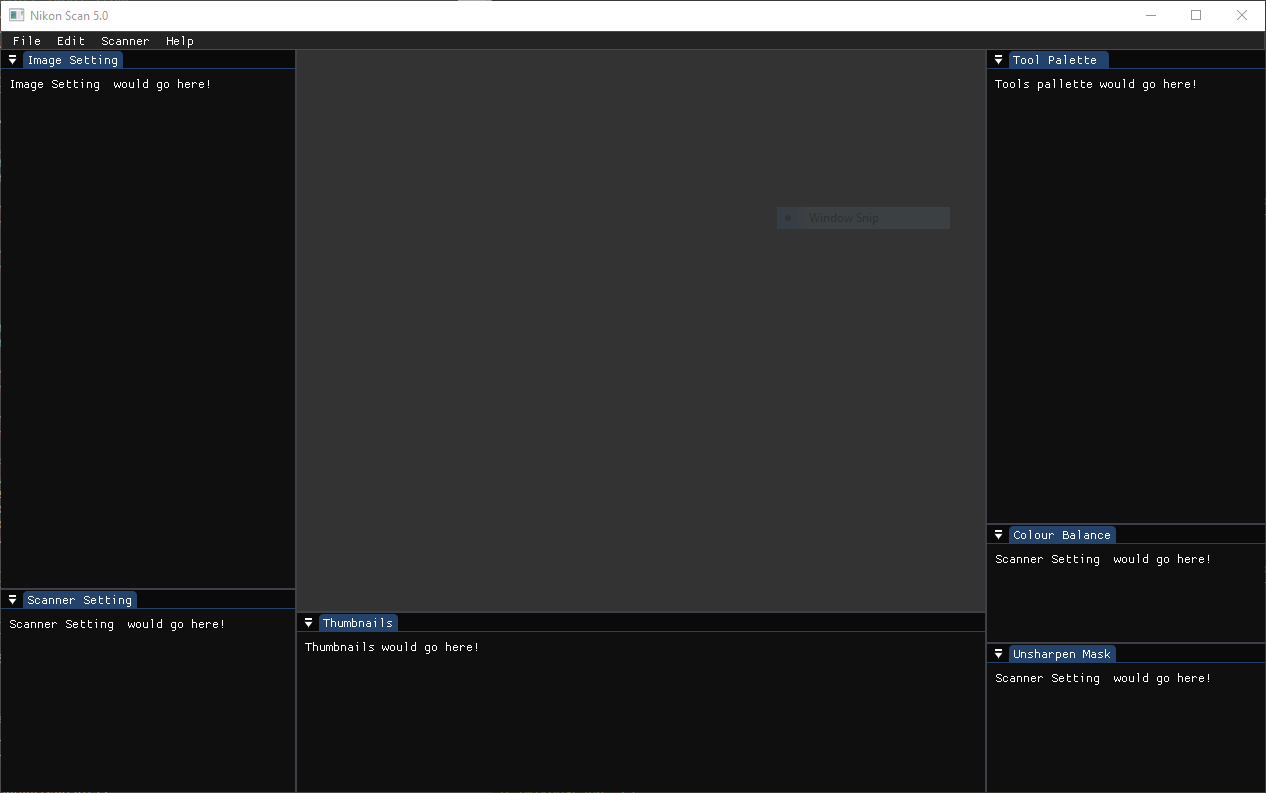
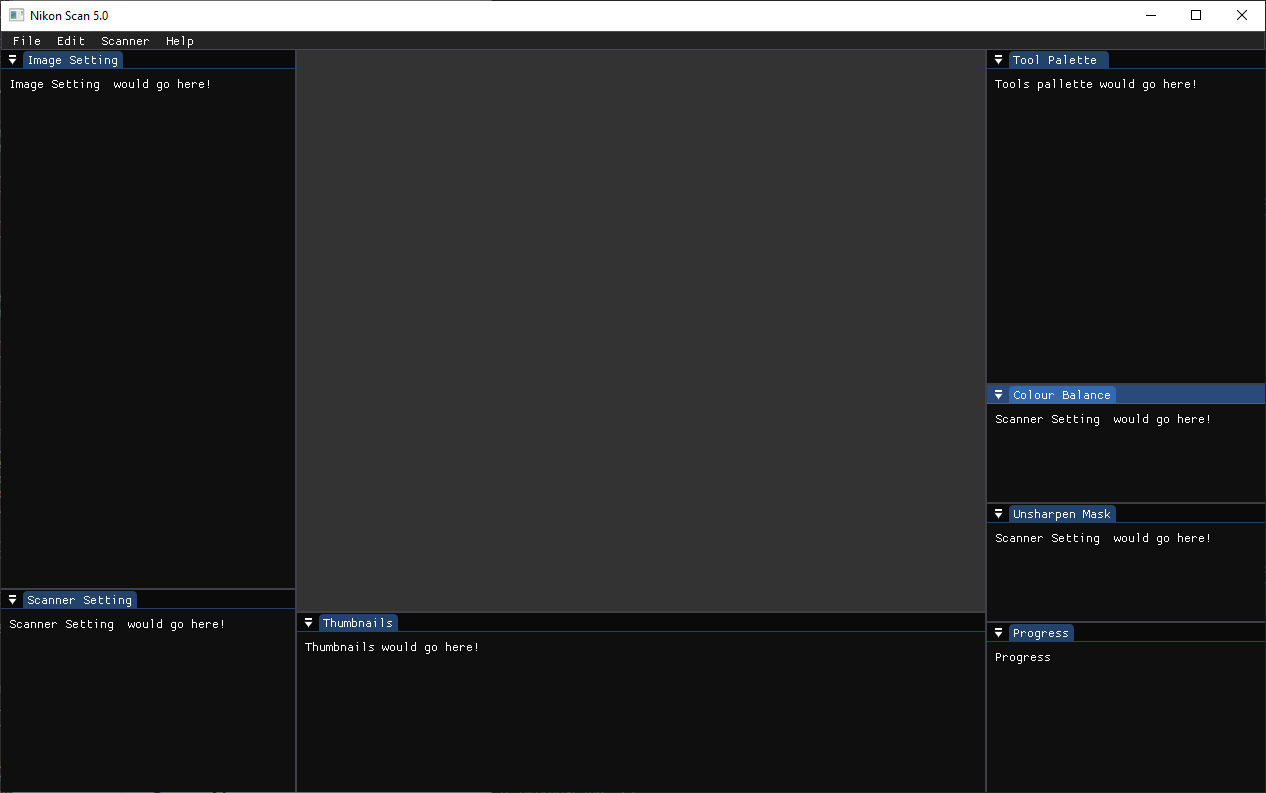
added progress window

diff --git a/NikonScan.cpp b/NikonScan.cpp
@@ -56,6 +56,11 @@ static void ShowUnsharpenMask(){
   ImGui::End();
 }
 
+static void ShowProgress(){
+  ImGui::Begin("Progress");
+  ImGui::Text("Progress");
+  ImGui::End();
+}
 
 
 // Entry Point
@@ -127,7 +132,7 @@ int main(int argc, char **argv) {
     ShowScannerSetting();
     ShowColourBalance();
     ShowUnsharpenMask();
-
+    ShowProgress();
     
     // Rendering
     ImGui::Render();
